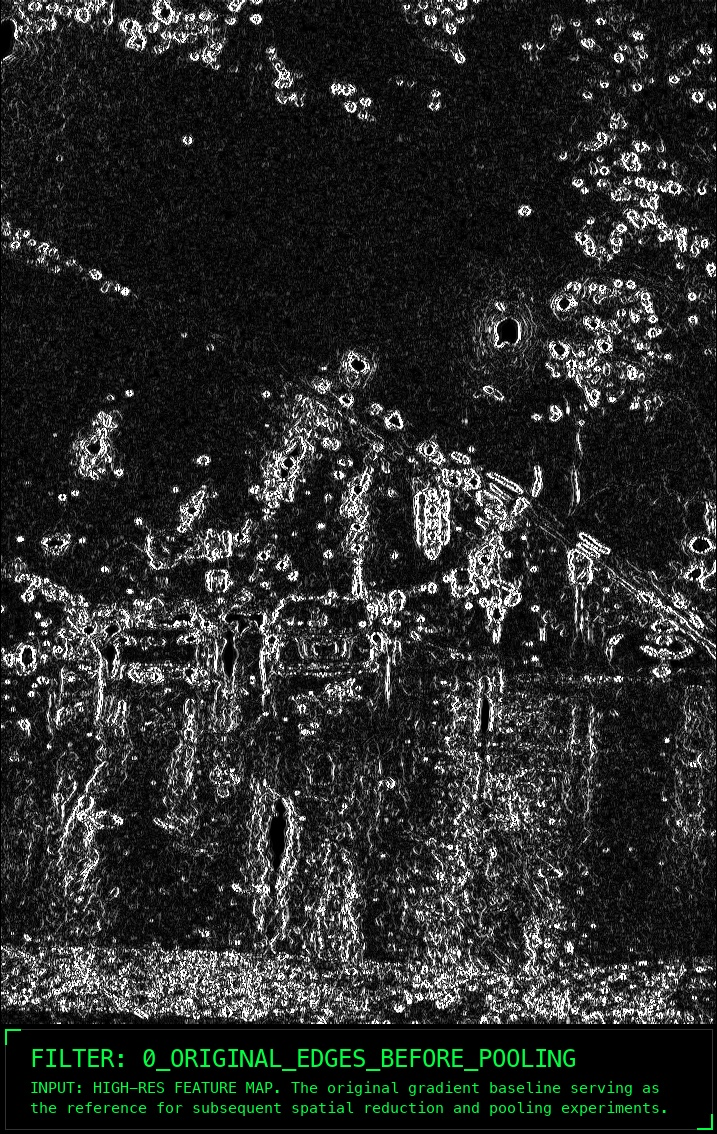
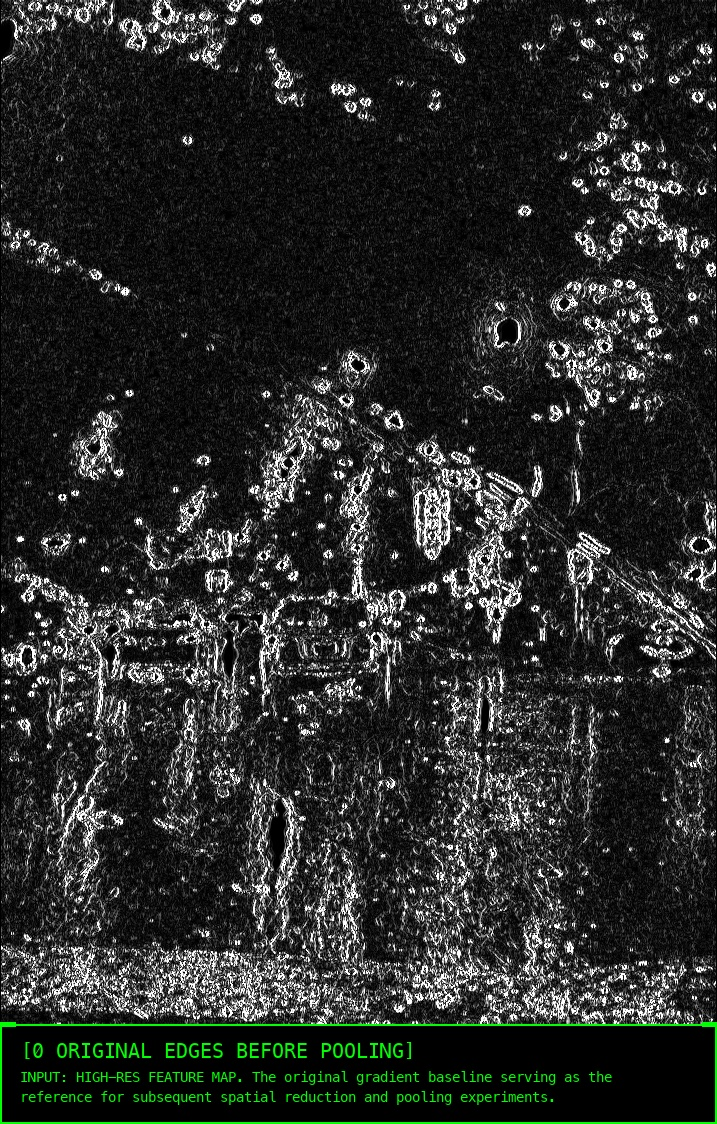
Update main, experiments, visualizer code and adaptive UI images

diff --git a/src/experiments.py b/src/experiments.py
@@ -31,7 +31,6 @@ def run_edge_detection_experiment(image_tensor: np.ndarray) -> List[Tuple[str, n
     """
     print("[EXPERIMENT] Running Edge Detection kernels...")
     
-    # ИСПРАВЛЕНО: Добавлены Prewitt и Roberts для корректного запуска на всех картинках!
     filters = [
         SobelFilterX(), 
         SobelFilterY(), 
@@ -183,9 +182,9 @@ def run_advanced_cnn_experiment(image_tensor: np.ndarray) -> List[Tuple[str, np.
 # =============================================================================
 
 class CustomSharpen(BaseKernelFilter):
-    """A flexible sharpen filter to test parameter shifts (+-1)."""
+    """A flexible sharpen filter used to evaluate parameter sensitivity (±1 shift)."""
     def __init__(self, center_weight: float):
-        # We change the central pixel weight
+        # Dynamically define the kernel by adjusting the central pixel weight
         kernel = np.array([
             [0, -1, 0], 
             [-1, center_weight, -1], 
@@ -196,38 +195,47 @@ class CustomSharpen(BaseKernelFilter):
 def run_metrics_and_parameter_shift(image_tensor: np.ndarray) -> List[Tuple[str, np.ndarray]]:
     """
     EXPERIMENT G: Parameter Shift & Mathematical Metrics.
-    Fulfills the requirement to change a parameter by +-1 and calculate
-    the pixel-wise sum of differences to evaluate filter sensitivity.
+    Evaluates filter sensitivity by shifting a central parameter by ±1 
+    and calculating the pixel-wise Sum of Absolute Differences (SAD).
     """
-    print("\n[EXPERIMENT] Running Parameter Shift (+-1) and Metrics...")
+    print("\n[EXPERIMENT] Running Parameter Shift (±1) and Sensitivity Metrics...")
     results = []
     
-    # 1. Base Filter (Center weight = 5)
-    print("   -> Applying Base Filter (Center = 5)...")
+    # 1. Shifted Filter -1 (Center weight = 4)
+    print("   -> Applying Shifted Filter (Center = 4, decreased by 1)...")
+    filter_minus = CustomSharpen(center_weight=4)
+    img_minus = filter_minus.apply(image_tensor)
+    results.append(("shifted_sharpen_4", img_minus))
+    
+    # 2. Base Filter (Center weight = 5)
+    print("   -> Applying Base Filter (Baseline, Center = 5)...")
     filter_base = CustomSharpen(center_weight=5)
     img_base = filter_base.apply(image_tensor)
-    results.append(("1_Base_Sharpen_5", img_base))
+    results.append(("1_base_sharpen_5", img_base))
     
-    # 2. Shifted Filter (Center weight = 6, i.e., +1)
-    print("   -> Applying Shifted Filter (Center = 6, changed by +1)...")
-    filter_shifted = CustomSharpen(center_weight=6)
-    img_shifted = filter_shifted.apply(image_tensor)
-    results.append(("2_Shifted_Sharpen_6", img_shifted))
+    # 3. Shifted Filter +1 (Center weight = 6)
+    print("   -> Applying Shifted Filter (Center = 6, increased by 1)...")
+    filter_plus = CustomSharpen(center_weight=6)
+    img_plus = filter_plus.apply(image_tensor)
+    results.append(("2_shifted_sharpen_6", img_plus))
     
-    # 3. CALCULATE METRIC: Pixel-wise sum of absolute differences
-    # We use float32 to prevent overflow during subtraction
-    diff_tensor = np.abs(img_base.astype(np.float32) - img_shifted.astype(np.float32))
-    total_difference = np.sum(diff_tensor)
+    # 4. METRIC CALCULATION: Sum of Absolute Differences (SAD)
+    # Compare both -1 and +1 shifts against the baseline image
+    diff_minus = np.abs(img_base.astype(np.float32) - img_minus.astype(np.float32))
+    diff_plus = np.abs(img_base.astype(np.float32) - img_plus.astype(np.float32))
+    
+    total_diff_minus = np.sum(diff_minus)
+    total_diff_plus = np.sum(diff_plus)
     
     print("-" * 50)
-    print(f"   [METRIC RESULT] Total Pixel-wise Difference: {total_difference:,.0f}")
-    print("   [CONCLUSION] A change of +1 in the central weight drastically amplifies")
-    print("   high-frequency signals (edges), proving that linear filters are highly")
-    print("   sensitive to central parameters.")
+    print(f"   [METRIC -1] Total Pixel-wise Difference (Base vs 4): {total_diff_minus:,.0f}")
+    print(f"   [METRIC +1] Total Pixel-wise Difference (Base vs 6): {total_diff_plus:,.0f}")
+    print("   [CONCLUSION] Massive SAD values prove the hypersensitivity of linear filters.")
     print("-" * 50)
     
-    # Save the absolute difference as a heatmap/image to show exactly WHAT changed
-    diff_normalized = np.clip(diff_tensor, 0, 255).astype(np.uint8)
-    results.append(("3_Difference_Map", diff_normalized))
+    # 5. Generate and save the Difference Map (for README visualization)
+    diff_normalized = np.clip(diff_plus, 0, 255).astype(np.uint8)
+    results.append(("3_difference_map", diff_normalized))
     
+    # CRITICAL: Return the collected results to the main pipeline runner
     return results
